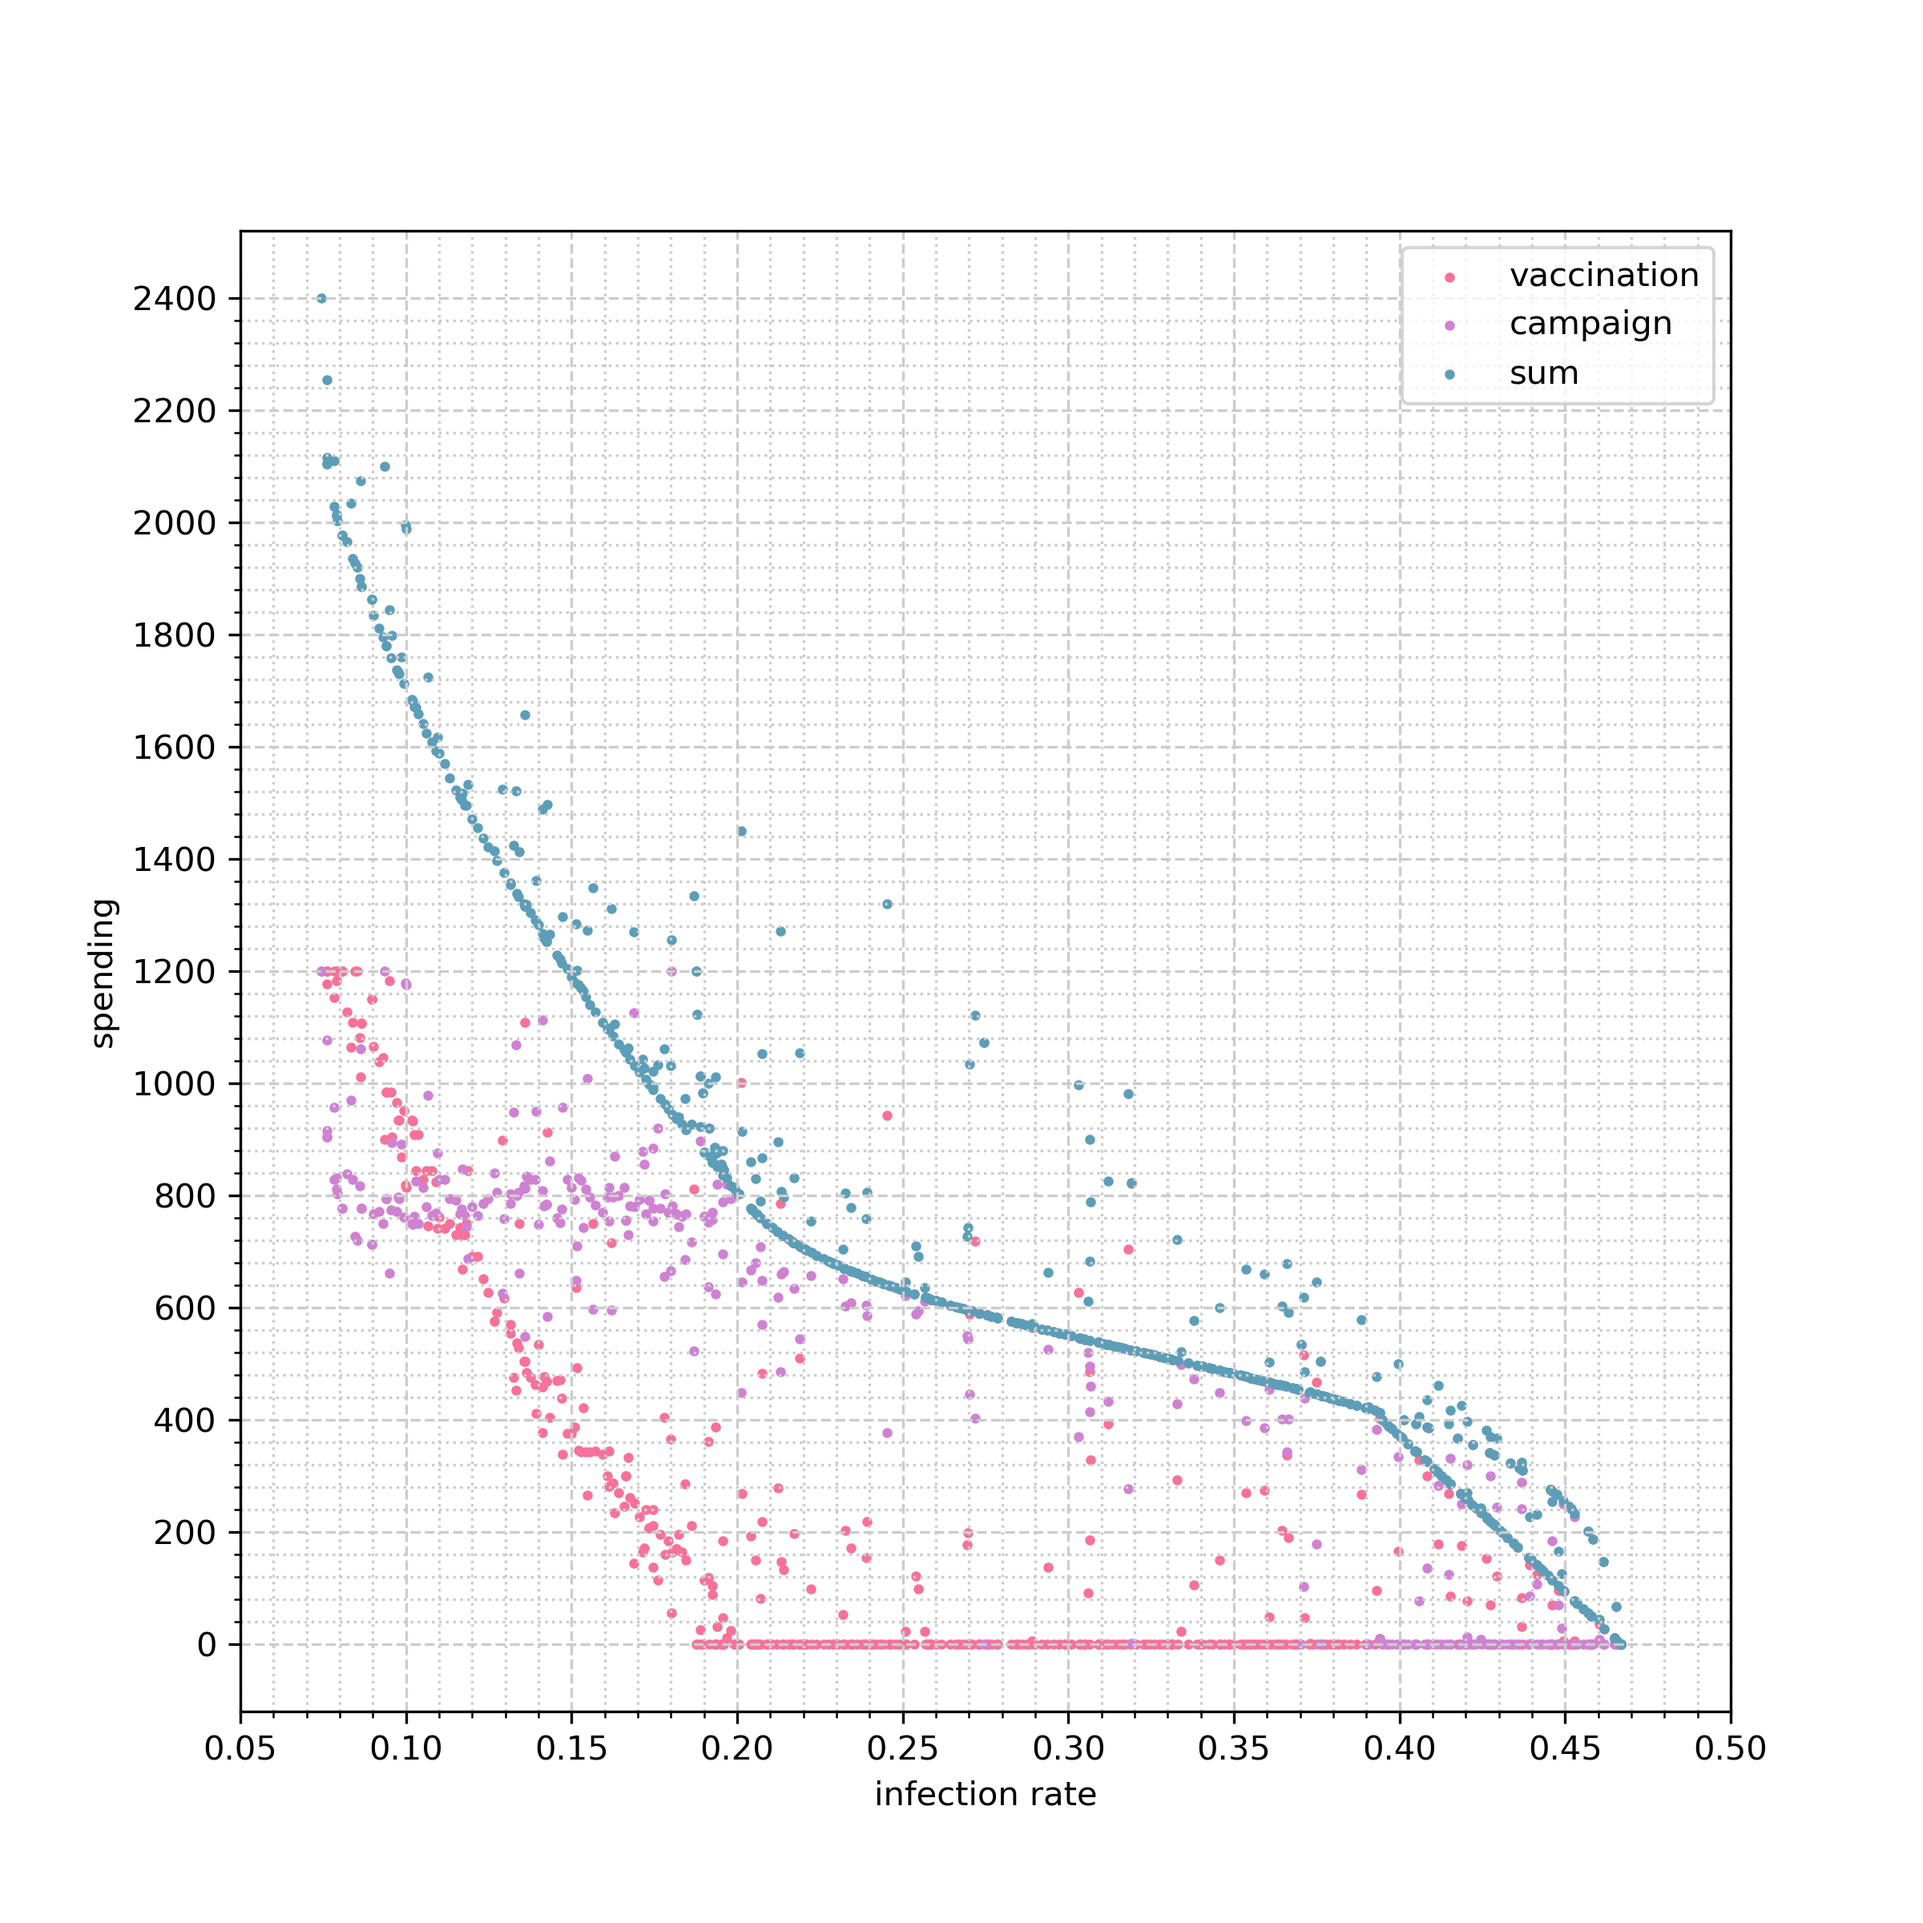
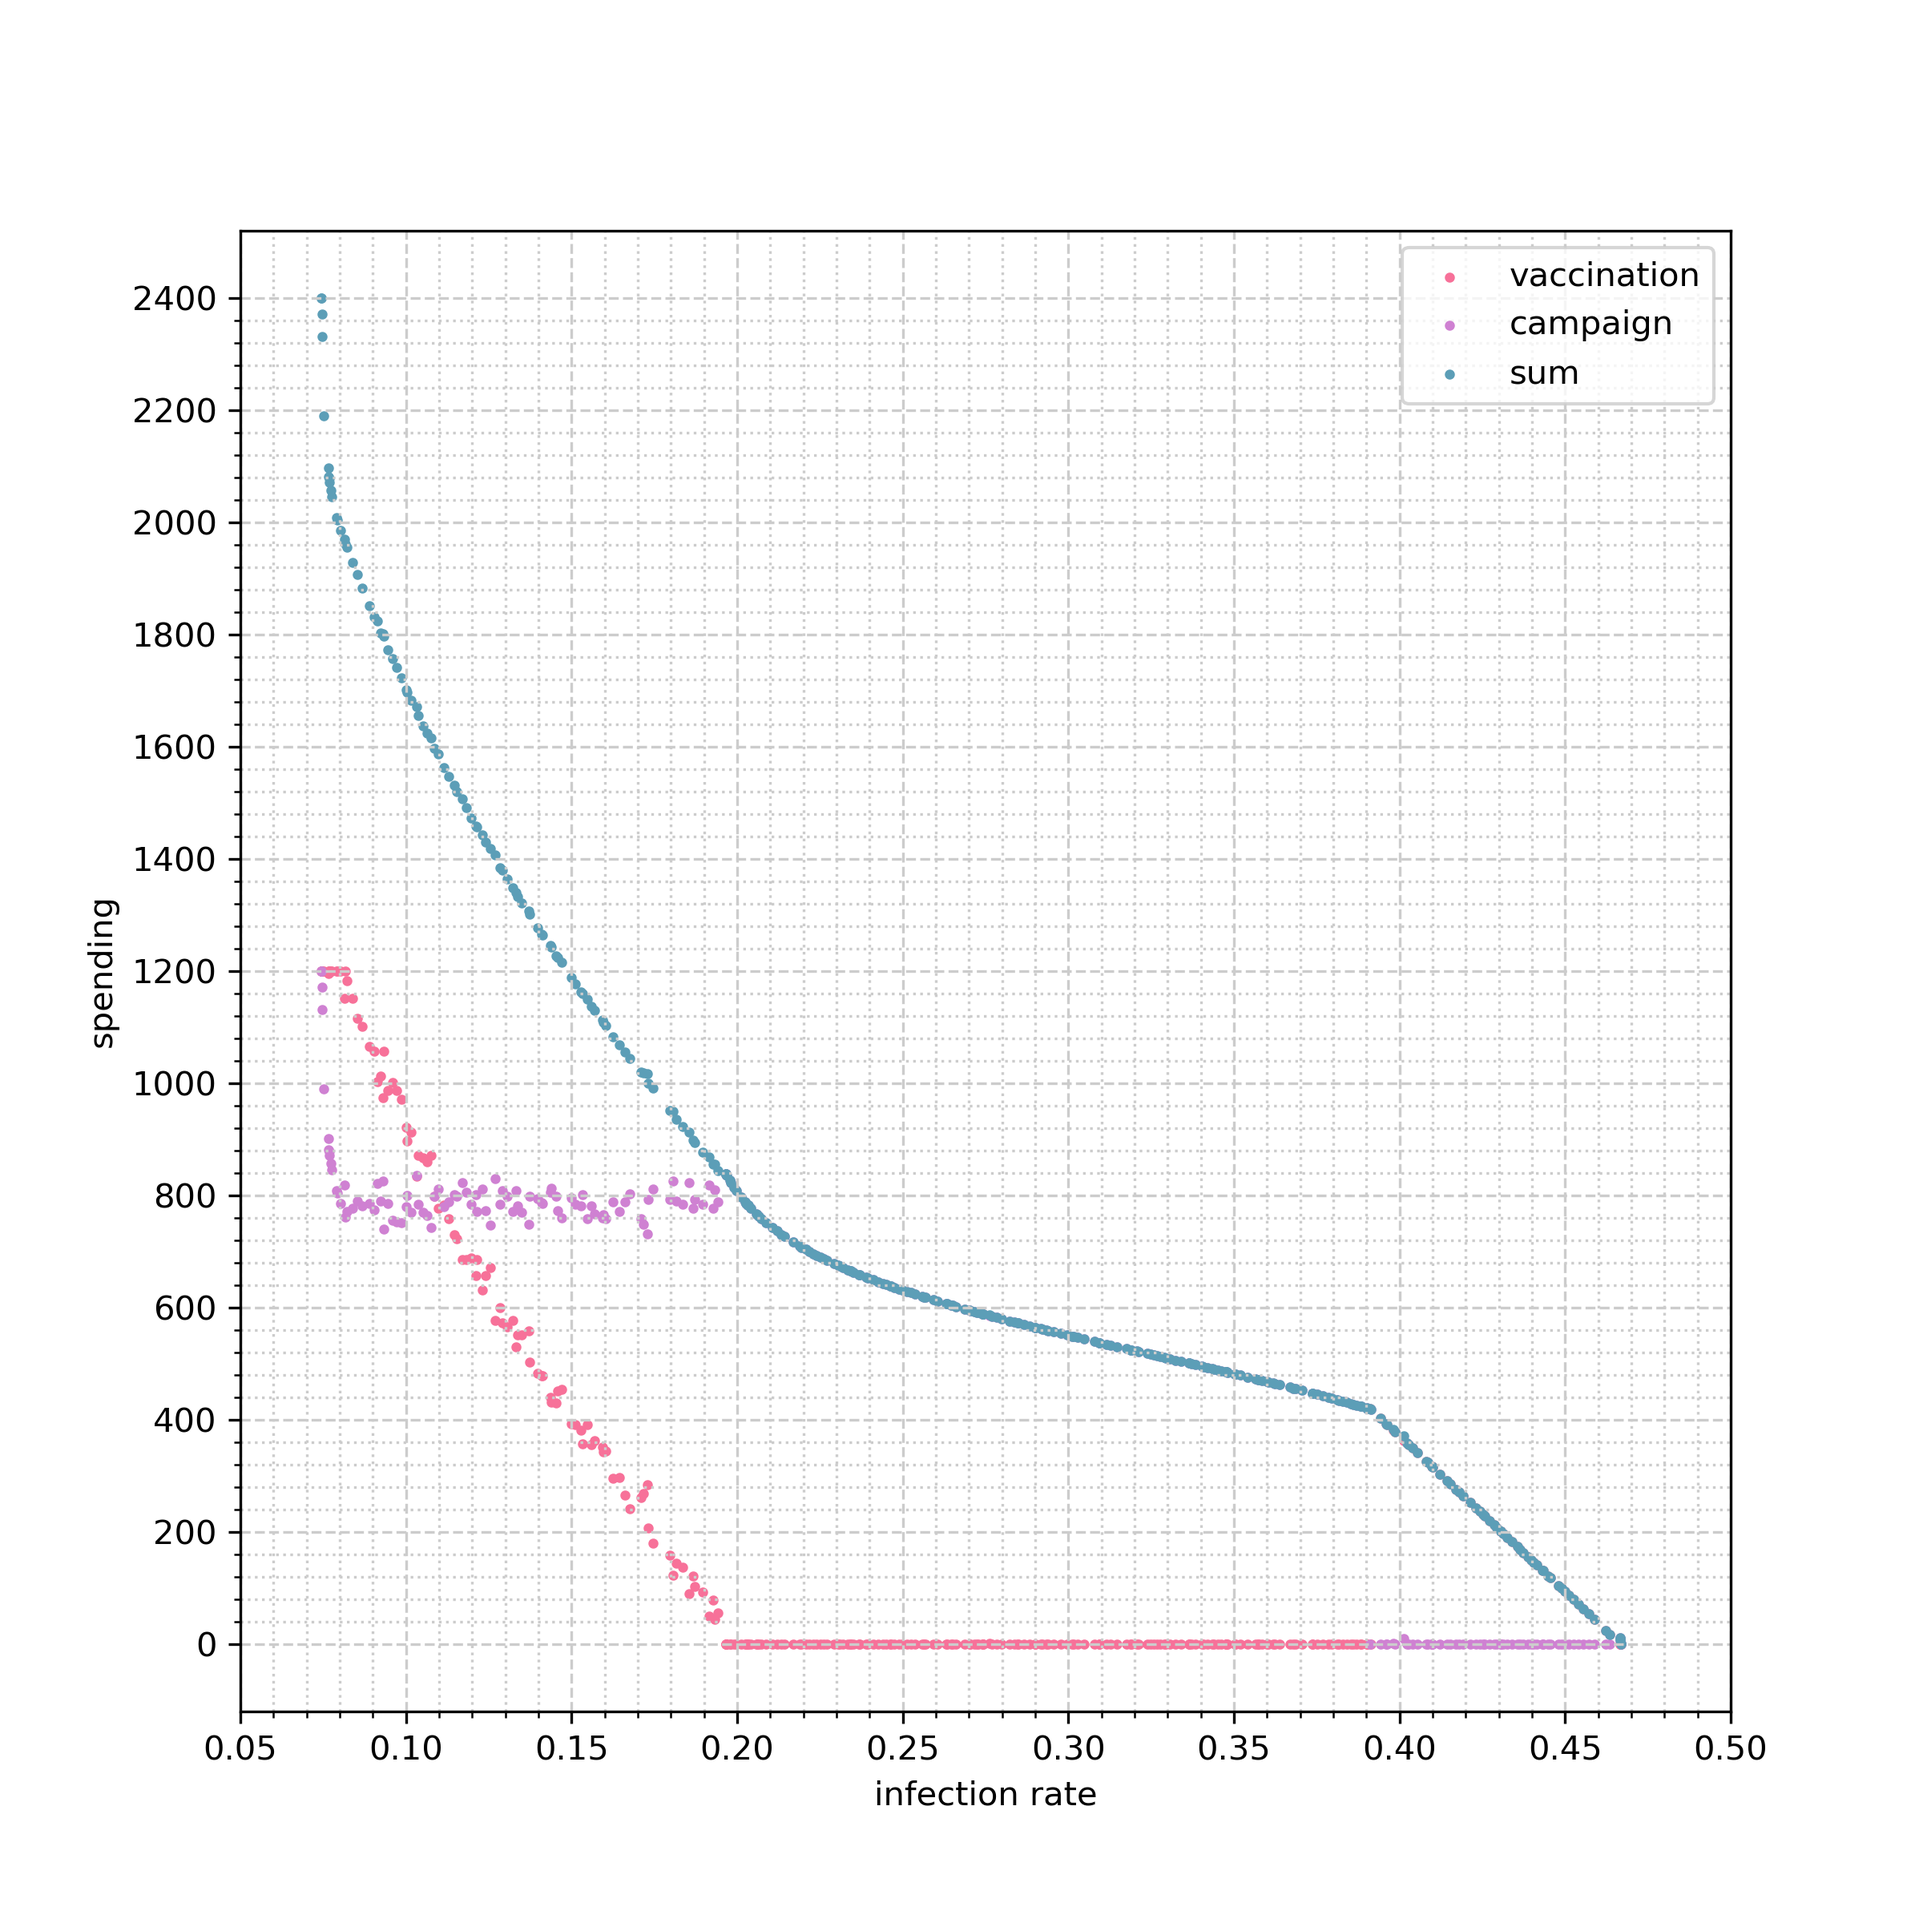
v1.3.34

diff --git a/examples/vaccination.py b/examples/vaccination.py
@@ -329,6 +329,7 @@ def execute(task):
         xs, ys = mode.minimize(mode.wrapper(problem.fitness2, 2, interval=1000), 2, 
                                     0, problem.bounds, popsize = 256, max_evaluations = 25600, 
                                       nsga_update=False, workers=8)
+        xs, ys = moretry.pareto(xs, ys)
         plot2d(xs, ys, task)
     elif task == 'vaccine2dretry':
         xs, ys = modecpp.retry(mode.wrapper(problem.fitness2, 2, interval=1000), 2, 
@@ -339,6 +340,7 @@ def execute(task):
         xs, ys = mode.minimize(mode.wrapper(problem.fitness3, 3, interval=1000), 3, 
                     0, problem.bounds, popsize = 512, max_evaluations = 25600, 
                     nsga_update=False, workers=8)
+        xs, ys = moretry.pareto(xs, ys)
         plot3d(xs, ys, task)
     elif task == 'vaccine3dretry':   
         xs, ys = modecpp.retry(mode.wrapper(problem.fitness3, 3, interval=1000), 3, 
